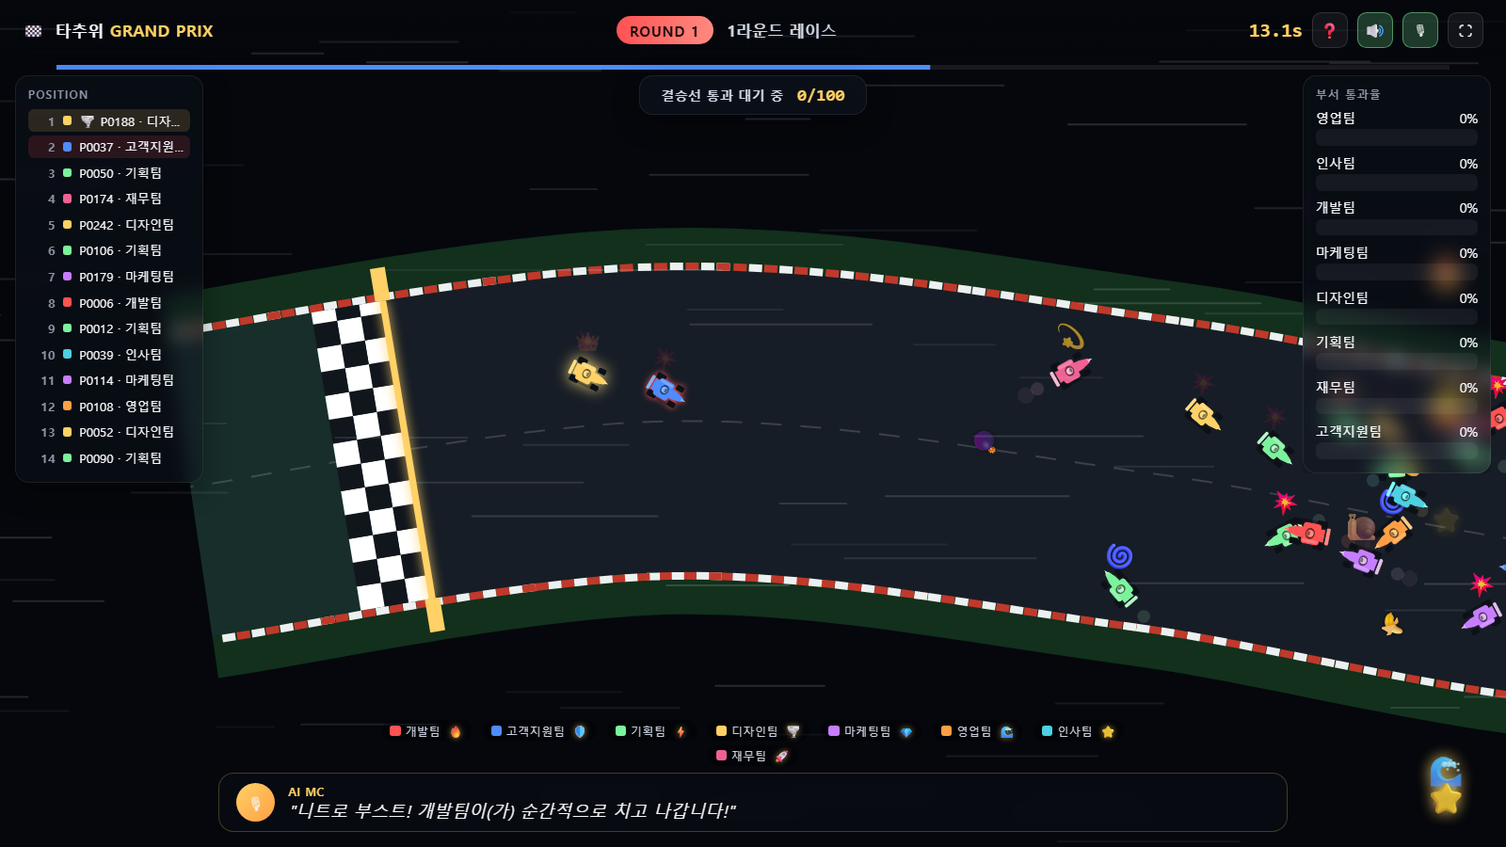
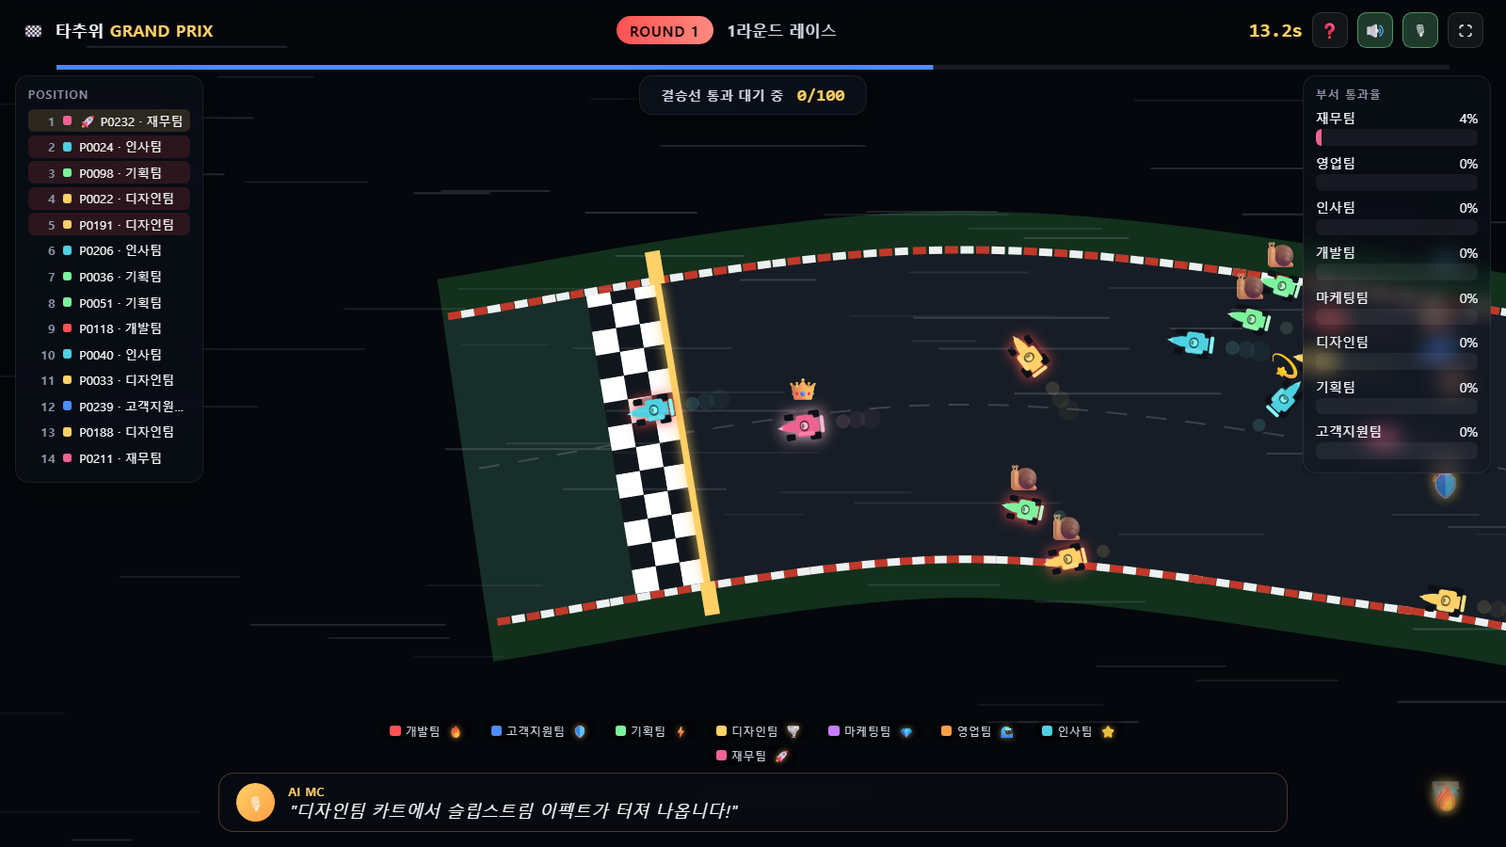
레이스: 장애물 8종에 종류별 크기·움직임 패턴 부여
사용자 요청: "장애물이 각각 특색이 있도록 해 줘. 움직임과 패턴도 다
제각각이고, 크기도 카트보다 큰 것 등도 있게끔".

예전에는 8종이 **전부 같은 사인파 좌우 흔들림**에 진폭·주기만 난수로
달랐고 크기도 0.85~1.35배 안에서만 흔들려서, 화면에서는 사실상 이모지만
다른 같은 물체로 보였다. race.py에 OBSTACLE_PROFILES를 두고 종류마다
크기·흔들림 폭·주기·회전 속도·형태 비율을 따로 정의한다. 클라이언트는
서버가 내려준 motion 값에 따라 **수식 자체가 다른** 움직임을 그린다:

- 바나나 tumble(빠르게 뒹굴며 불규칙하게 튐) / 콘 jitter(두 주파수를 겹친
  신경질적 떨림) / 타이어 roll(좌우 왕복 + 회전을 이동에 연동해 실제로
  구름) / 폭탄 pulse(부풀었다 꺼짐) / 얼음 glide(느리고 넓은 활강) /
  기름·웅덩이 seep(제자리에서 번졌다 줄어듦) / 바위 static(사실상 고정)
- 크기는 0.75(바나나)~1.95(바위)로 벌렸다. 기준 크기 자체가 카트 높이의
  1.05배라 **바위는 카트의 약 2배**가 된다. 같은 종류 안에서도 개체마다
  ±12% 편차를 줘 콘 두 개가 똑같이 흔들리지는 않게 했다.

**설계 규칙: 무겁고 클수록 덜 움직인다.** 물리적으로 자연스럽기도 하지만
실용적 이유가 더 크다 -- 충돌 판정은 레인 일치로만 하므로 큰 장애물이 옆
레인까지 흔들려 나가면 "저건 내 레인이 아닌데 왜 안 맞았지"로 보인다.
그래서 바위·웅덩이의 drift는 거의 0이고, 어떤 종류든 흔들림 폭은 기존
HAZARD_DRIFT_LANES(자기 레인 안) 상한을 그대로 지킨다.

부수 변경:
- drawObstacle이 **트랙 방향으로 먼저 정렬한 뒤** 자체 회전을 얹는다.
  이 순서라야 squash(레인 방향으로 납작하게)가 의미를 갖는다.
- 장애물 스프라이트를 56px -> 112px로 굽는다. 바위가 2배로 커지고 R3
  클로즈업 줌이 겹치면 예전 해상도로는 뭉개졌다.

**판정에는 영향이 없다.** 크기·움직임은 전부 연출 파라미터이고, 순위에
쓰이는 페널티 합은 여전히 레인 일치로만 정해진다(순환 참조 방지 구조
그대로). 결승선에서 목표 위치와 정확히 일치한다는 불변식도 그대로다.

검증: 기존 "흔들림이 레인을 벗어나면 안 된다" 회귀 테스트가 실제로 한 번
잡아줬다(개체 편차를 곱하기 전에 상한을 걸어 상한을 넘겼음). 종류별 프로필이
서로 구별되는지 + 개체 편차가 성격을 흐리지 않는지 확인하는 테스트 2개
추가. 실제 250명 세션을 구동해 확대 캡처로 형태·크기 차이를 눈으로 확인했고
(squash 0.6은 이모지가 찌그러져 알아볼 수 없어 0.75~1.0으로 조정),
콘솔 에러 0건. pytest 322개 통과(320 -> +2).

diff --git a/static/stage.js b/static/stage.js
@@ -1840,14 +1840,17 @@ function drawKart(ctx, x, y, h, angle, color, glow, isLeader, atRisk, pulse, eff
 const obstacleSpriteCache = new Map();
 
 function buildObstacleSprite(type) {
+  // 종류별 크기 차이를 준 뒤로는 바위가 카트의 2배까지 커지고, R3 클로즈업
+  // 줌에서는 그보다 더 커진다. 56px로 굽던 예전 해상도로는 확대 시 뭉개지므로
+  // 넉넉히 굽는다(종류당 한 번만 만들어 캐시하므로 비용은 무시할 수준).
   const c = document.createElement("canvas");
-  c.width = 56;
-  c.height = 56;
+  c.width = 112;
+  c.height = 112;
   const g = c.getContext("2d");
-  g.font = "40px serif";
+  g.font = "80px serif";
   g.textAlign = "center";
   g.textBaseline = "middle";
-  g.fillText((OBSTACLE_VISUAL[type] || OBSTACLE_VISUAL.cone).emoji, 28, 30);
+  g.fillText((OBSTACLE_VISUAL[type] || OBSTACLE_VISUAL.cone).emoji, 56, 60);
   return c;
 }
 
@@ -1866,10 +1869,73 @@ function drawObstacle(ctx, o, size) {
   ctx.shadowColor = "rgba(0,0,0,0.5)";
   ctx.shadowBlur = 4;
   ctx.translate(o.x, o.y);
-  ctx.rotate(o.spinPhase);
-  const s = size * o.sizeScale;
-  ctx.drawImage(obstacleSpriteFor(o.type), -s / 2, -s / 2, s, s);
+  // **트랙 방향으로 먼저 정렬한 뒤** 자체 회전을 얹는다. 이 순서라야
+  // squash(레인 방향으로 납작하게)가 의미를 갖는다 -- 정렬 후 로컬 +x가
+  // 진행 방향, +y가 레인을 가로지르는 방향이다.
+  ctx.rotate(o.angle + o.spinPhase);
+  const s = size * o.sizeScale * (o.pulse || 1);
+  const squash = o.squash !== undefined ? o.squash : 1;
+  // 진행 방향으로는 s만큼 길게, 레인을 가로지르는 방향으로는 s*squash만큼만.
+  // 기름·웅덩이처럼 큰 장애물이 옆 레인까지 번져 보이지 않게 하는 장치다
+  // (충돌 판정은 레인 일치로만 하므로 시각적 침범이 곧 오해가 된다).
+  ctx.drawImage(obstacleSpriteFor(o.type), -s / 2, -(s * squash) / 2, s, s * squash);
   ctx.restore();
+}
+
+// 장애물 종류별 움직임 패턴(사용자 요청: "움직임과 패턴도 다 제각각").
+// 서버가 내려준 motion 값에 따라 **수식 자체가 다르다** -- 예전처럼 같은
+// 사인파에 진폭만 다른 게 아니다. 반환값:
+//   lateral : 레인 너비 대비 좌우 오프셋
+//   bob     : 진행률(at_ratio) 오프셋 -- 앞뒤로 살짝 떠다니는 느낌
+//   pulse   : 크기 배수(1이면 그대로)
+//   roll    : true면 회전을 좌우 이동에 연동(구르는 물체)
+function obstacleMotionAt(o, t) {
+  const speed = o.drift_speed !== undefined ? o.drift_speed : 0.6;
+  const phase = (o.drift_phase !== undefined ? o.drift_phase : hashToUnit(o.id + ":p")) * Math.PI * 2;
+  const amp = o.drift_amp !== undefined ? o.drift_amp : 0.3;
+  const w = t * speed * Math.PI * 2 + phase;
+
+  switch (o.motion) {
+    // 바위: 사실상 고정. 아주 미세하게만 흔들려 "살아 있는 화면"만 유지한다.
+    case "static":
+      return { lateral: Math.sin(w) * amp * 0.4, bob: 0, pulse: 1 };
+    // 콘: 두 주파수를 겹쳐 불규칙하게 떠는 느낌(가볍고 자꾸 건드려지는 물체)
+    case "jitter":
+      return {
+        lateral: (Math.sin(w) * 0.6 + Math.sin(w * 2.7 + 1.1) * 0.4) * amp,
+        bob: Math.sin(w * 3.1) * 0.0015,
+        pulse: 1,
+      };
+    // 타이어: 삼각파로 좌우를 왕복하고, 회전을 이동에 연동해 **실제로 구르게** 한다
+    case "roll":
+      return {
+        lateral: (Math.asin(Math.sin(w)) / (Math.PI / 2)) * amp,
+        bob: 0,
+        pulse: 1,
+        roll: true,
+      };
+    // 바나나: 빠르게 뒹굴며 좌우로도 불규칙하게 튄다
+    case "tumble":
+      return {
+        lateral: (Math.sin(w) * 0.7 + Math.cos(w * 1.6) * 0.3) * amp,
+        bob: Math.cos(w * 0.9) * 0.003,
+        pulse: 1,
+      };
+    // 폭탄: 자리는 거의 안 옮기고 **부풀었다 꺼진다**(터지기 직전 같은 맥동)
+    case "pulse":
+      return {
+        lateral: Math.sin(w * 0.5) * amp,
+        bob: 0,
+        pulse: 1 + Math.max(0, Math.sin(w)) * 0.24,
+      };
+    // 얼음: 느리고 넓게 활강한다
+    case "glide":
+      return { lateral: Math.sin(w) * amp, bob: Math.cos(w * 0.7) * 0.004, pulse: 1 };
+    // 기름·웅덩이: 제자리에서 천천히 번졌다 줄어든다(좌우 이동은 거의 없음)
+    case "seep":
+    default:
+      return { lateral: Math.sin(w) * amp, bob: 0, pulse: 1 + Math.sin(w) * 0.07 };
+  }
 }
 
 // 서버가 보낸 배치(id/at_ratio/lane/type + 움직임 파라미터)를 화면 좌표로
@@ -1889,24 +1955,26 @@ function obstacleScreenPoints(obstacles, passLine, round, halfWidth) {
   return obstacles.map((o) => {
     // 서버가 파라미터를 안 준 경우(구버전 세션)에도 id 해시로 폴백해
     // 최소한의 움직임은 유지한다.
-    const amp = o.drift_amp !== undefined ? o.drift_amp : 0.3;
-    const speed = o.drift_speed !== undefined ? o.drift_speed : 0.6;
     const phase = (o.drift_phase !== undefined ? o.drift_phase : hashToUnit(o.id + ":p")) * Math.PI * 2;
     const spinSpeed = o.spin_speed !== undefined ? o.spin_speed : 0;
     const sizeScale = o.size_scale !== undefined ? o.size_scale : 1;
 
-    const wobble = Math.sin(t * speed * Math.PI * 2 + phase);
-    const laneOffset = (o.lane - (LANE_COUNT - 1) / 2) * laneWidth + wobble * amp * laneWidth;
-    // 진행 방향으로도 아주 살짝 떠다니게 한다(폭이 작아 충돌 시점 인식에는
-    // 영향을 주지 않으면서 "떠 있는 물체" 느낌을 만든다).
-    const bob = Math.cos(t * speed * Math.PI * 2 * 0.7 + phase) * 0.004;
-    const center = trackPointAt(warpProgress(Math.max(0, o.at_ratio + bob), passLine), round);
+    const m = obstacleMotionAt(o, t);
+    const laneOffset = (o.lane - (LANE_COUNT - 1) / 2) * laneWidth + m.lateral * laneWidth;
+    const center = trackPointAt(warpProgress(Math.max(0, o.at_ratio + m.bob), passLine), round);
     const nx = -Math.sin(center.angle);
     const ny = Math.cos(center.angle);
+    // 구르는 물체(타이어)는 회전이 좌우 이동에 연동돼야 진짜 구르는 것처럼
+    // 보인다 -- 등속 회전이면 제자리에서 헛도는 바퀴가 된다.
+    const spinPhase = m.roll
+      ? m.lateral * spinSpeed * 9
+      : phase + t * spinSpeed;
     return {
       ...o,
       sizeScale,
-      spinPhase: phase + t * spinSpeed,
+      pulse: m.pulse,
+      angle: center.angle,
+      spinPhase,
       x: center.x + nx * laneOffset,
       y: center.y + ny * laneOffset,
     };

diff --git a/app/race.py b/app/race.py
@@ -124,6 +124,58 @@ HAZARD_JITTER = 0.7
 # 유지되는 선에서만 움직이게 한다(충돌 판정은 레인 일치로만 정해진다).
 HAZARD_DRIFT_LANES = 0.38
 
+# 장애물 종류별 "성격"(사용자 요청: "장애물이 각각 특색이 있도록. 움직임과
+# 패턴도 다 제각각이고, 크기도 카트보다 큰 것 등도 있게끔").
+#
+# 예전에는 8종이 **전부 같은 사인파 좌우 흔들림**에 진폭·주기만 난수로
+# 달랐고 크기도 0.85~1.35배 안에서만 흔들려서, 화면에서는 사실상 이모지만
+# 다른 같은 물체로 보였다. 이제 종류마다 움직임 패턴 자체가 다르다.
+#
+# **설계 규칙: 무겁고 큰 것일수록 덜 움직이고, 가볍고 작은 것일수록 많이
+# 돌아다닌다.** 물리적으로 납득되기도 하지만, 실용적인 이유가 더 크다 --
+# 충돌 판정은 서버가 **레인 일치로만** 하므로, 큰 장애물이 옆 레인까지
+# 흔들려 나가면 "저건 내 레인이 아닌데 왜 안 맞았지"로 보인다. 그래서 큰
+# 것에는 거의 0에 가까운 drift를 준다.
+#
+# 값 의미:
+#   motion  : 클라이언트가 고를 움직임 패턴(static/jitter/roll/tumble/
+#             pulse/glide/seep -- static.js의 obstacleScreenPoints 참고)
+#   size    : 기본 장애물 크기 배수. 기준 크기 자체가 카트 높이의 1.05배라
+#             1.0을 넘으면 이미 카트보다 크고, rock(1.95)은 약 2배다.
+#   drift   : 좌우 흔들림 폭(레인 너비 대비, HAZARD_DRIFT_LANES 이하)
+#   speed   : 흔들림 주기(Hz) 범위
+#   spin    : 회전 속도(회/초) 범위. 타이어는 빠르게 구르고 바위는 거의 안 돈다
+#   squash  : 가로(레인 방향) 대 세로(진행 방향) 비. 1보다 작으면 레인
+#             방향으로 납작해져 **옆 레인을 안 건드리면서도** 커 보인다 --
+#             기름/웅덩이처럼 바닥에 퍼진 것에 쓴다
+OBSTACLE_PROFILES: dict[str, dict[str, Any]] = {
+    # 작고 가벼운 것 -- 자주, 넓게 돌아다닌다
+    "cone": {"motion": "jitter", "size": 0.80, "drift": 0.30,
+             "speed": (0.9, 1.7), "spin": (-0.35, 0.35), "squash": 1.0},
+    "banana": {"motion": "tumble", "size": 0.75, "drift": 0.26,
+               "speed": (0.9, 1.5), "spin": (-2.8, 2.8), "squash": 1.0},
+    # 구르는 것 -- 좌우로 왕복하면서 진행 방향으로 빠르게 회전
+    "tire": {"motion": "roll", "size": 1.10, "drift": 0.34,
+             "speed": (0.45, 0.8), "spin": (2.2, 3.4), "squash": 1.0},
+    # 터질 듯 맥동하는 것 -- 자리는 거의 안 옮기고 크기가 뛴다
+    "bomb": {"motion": "pulse", "size": 1.30, "drift": 0.12,
+             "speed": (1.4, 2.2), "spin": (-0.9, 0.9), "squash": 1.0},
+    # 미끄러지는 것 -- 느리고 넓게 활강한다
+    "ice": {"motion": "glide", "size": 1.55, "drift": 0.20,
+            "speed": (0.18, 0.36), "spin": (-0.3, 0.3), "squash": 0.95},
+    # 바닥에 퍼진 것 -- 거의 안 움직이고, 레인 방향으로 살짝 납작하다.
+    # squash를 0.6까지 내려봤더니 이모지 자체가 찌그러져 무슨 물건인지
+    # 알아볼 수 없었다(기름통이 파란 마름모로 보였다). 레인 침범을 막는
+    # 효과는 유지하면서 형태는 알아볼 수 있는 선인 0.75~0.85로 잡는다.
+    "oil": {"motion": "seep", "size": 1.65, "drift": 0.05,
+            "speed": (0.14, 0.30), "spin": (-0.05, 0.05), "squash": 0.85},
+    "puddle": {"motion": "seep", "size": 1.75, "drift": 0.04,
+               "speed": (0.12, 0.26), "spin": (-0.04, 0.04), "squash": 0.75},
+    # 가장 크고 무거운 것 -- 사실상 고정. 카트 2배 크기의 위압감이 목적이다
+    "rock": {"motion": "static", "size": 1.95, "drift": 0.02,
+             "speed": (0.08, 0.18), "spin": (-0.1, 0.1), "squash": 1.0},
+}
+
 
 @lru_cache(maxsize=64)
 def _hazard_specs(seed: str, round_index: int) -> tuple[dict[str, Any], ...]:
@@ -158,6 +210,15 @@ def _hazard_specs(seed: str, round_index: int) -> tuple[dict[str, Any], ...]:
         lane = int(_pseudo_noise(f"{base}:lane") * LANE_COUNT)
         type_idx = int(_pseudo_noise(f"{base}:type") * len(OBSTACLE_CATALOG))
         obstacle_type, penalty = OBSTACLE_CATALOG[type_idx]
+        profile = OBSTACLE_PROFILES[obstacle_type]
+
+        def pick(key: str, lo_hi: tuple[float, float]) -> float:
+            """종류별 범위 안에서 시드로 하나 고른다. 같은 종류라도 개체마다
+            조금씩 다르게(같은 콘 두 개가 똑같이 흔들리지 않게) 만들되,
+            범위 자체가 종류마다 달라 성격은 유지된다."""
+            low, high = lo_hi
+            return low + _pseudo_noise(f"{base}:{key}") * (high - low)
+
         hazards.append(
             {
                 "id": f"r{round_index}-{i}",
@@ -167,11 +228,21 @@ def _hazard_specs(seed: str, round_index: int) -> tuple[dict[str, Any], ...]:
                 "penalty": penalty,
                 # 화면에서 살아 움직이게 하는 파라미터(연출 전용, 전부 시드
                 # 파생이라 관전자 화면 여러 대가 똑같이 움직인다).
-                "drift_amp": (0.35 + _pseudo_noise(f"{base}:amp") * 0.65) * HAZARD_DRIFT_LANES,
-                "drift_speed": 0.35 + _pseudo_noise(f"{base}:speed") * 0.75,  # Hz
+                # 종류별 성격(OBSTACLE_PROFILES)에 개체별 편차를 얹는다.
+                "motion": profile["motion"],
+                "squash": profile["squash"],
+                # 개체 편차를 **곱한 뒤에** 상한을 건다 -- 먼저 자르면 편차가
+                # 상한을 다시 넘겨버린다(레인 이탈 회귀 테스트가 잡아준 실수).
+                "drift_amp": min(
+                    HAZARD_DRIFT_LANES,
+                    profile["drift"] * (0.75 + _pseudo_noise(f"{base}:amp") * 0.5),
+                ),
+                "drift_speed": pick("speed", profile["speed"]),  # Hz
                 "drift_phase": _pseudo_noise(f"{base}:phase"),  # 0..1 (x2pi)
-                "spin_speed": (_pseudo_noise(f"{base}:spin") - 0.5) * 1.6,  # 회전/초
-                "size_scale": 0.85 + _pseudo_noise(f"{base}:size") * 0.5,
+                "spin_speed": pick("spin", profile["spin"]),  # 회전/초
+                # 개체별 크기 편차는 ±12%만 -- 이보다 크게 흔들면 "바위인데
+                # 콘만 하다" 같은 게 나와 종류별 크기 차이가 흐려진다.
+                "size_scale": profile["size"] * (0.88 + _pseudo_noise(f"{base}:size") * 0.24),
             }
         )
     return tuple(hazards)

diff --git a/tests/test_race.py b/tests/test_race.py
@@ -173,6 +173,54 @@ def test_obstacle_layout_is_deterministic_and_well_formed():
         assert hazard["drift_speed"] > 0
 
 
+def test_every_obstacle_type_has_a_distinct_look_and_motion_profile():
+    """사용자 요청: "장애물이 각각 특색이 있도록. 움직임과 패턴도 다
+    제각각이고, 크기도 카트보다 큰 것 등도 있게끔."
+
+    예전에는 8종이 전부 같은 사인파에 진폭만 난수로 달라 화면에서는 이모지만
+    다른 같은 물체로 보였다. 카탈로그의 모든 종류가 프로필을 갖는지, 그리고
+    그 프로필이 실제로 서로 구별되는지(움직임 패턴이 한 종류로 쏠리지 않고,
+    크기 차이가 눈에 띄는 폭인지)를 고정한다."""
+    catalog_types = {t for t, _ in race.OBSTACLE_CATALOG}
+    # 카탈로그에 있는데 프로필이 없으면 KeyError로 레이스가 죽는다
+    assert catalog_types == set(race.OBSTACLE_PROFILES)
+
+    motions = {p["motion"] for p in race.OBSTACLE_PROFILES.values()}
+    assert len(motions) >= 5, "움직임 패턴이 몇 종류로 쏠려 있습니다"
+
+    sizes = [p["size"] for p in race.OBSTACLE_PROFILES.values()]
+    # 기준 크기가 이미 카트 높이의 1.05배라, 1.5를 넘으면 확실히 카트보다 크다
+    assert max(sizes) >= 1.5, "카트보다 확실히 큰 장애물이 없습니다"
+    assert min(sizes) <= 0.85, "작고 앙증맞은 장애물이 없습니다"
+
+    # **무거운 것일수록 덜 움직인다** -- 큰 장애물이 옆 레인까지 흔들려 나가면
+    # "저건 내 레인이 아닌데 왜 안 맞았지"로 보인다(판정은 레인 일치로만 한다).
+    biggest = max(race.OBSTACLE_PROFILES.values(), key=lambda p: p["size"])
+    smallest = min(race.OBSTACLE_PROFILES.values(), key=lambda p: p["size"])
+    assert biggest["drift"] < smallest["drift"]
+
+
+def test_obstacle_render_params_follow_their_type_profile():
+    """개체별 편차가 있어도 **종류의 성격은 유지**돼야 한다 -- 같은 종류의
+    콘 두 개가 완전히 똑같이 흔들려도 안 되지만, 바위가 콘만 해져도 안 된다."""
+    by_type: dict[str, list[dict]] = {}
+    for round_index in (1, 2, 3):
+        for hazard in obstacle_layout("profile-seed", round_index, 0.7):
+            by_type.setdefault(hazard["type"], []).append(hazard)
+
+    for obstacle_type, hazards in by_type.items():
+        profile = race.OBSTACLE_PROFILES[obstacle_type]
+        for hazard in hazards:
+            assert hazard["motion"] == profile["motion"]
+            assert hazard["squash"] == profile["squash"]
+            # 크기 편차는 프로필 기준 ±12% 안
+            assert profile["size"] * 0.87 <= hazard["size_scale"] <= profile["size"] * 1.13
+            lo, hi = profile["speed"]
+            assert lo <= hazard["drift_speed"] <= hi
+            spin_lo, spin_hi = profile["spin"]
+            assert spin_lo <= hazard["spin_speed"] <= spin_hi
+
+
 def test_obstacles_are_placed_before_the_finish_line_with_even_spacing():
     """사용자 요청: 장애물은 결승선 **이후**가 아니라 결승선까지 가는
     도중에 적절한 간격으로 놓여야 한다."""

diff --git a/타추위-추첨프로그램_게임구조.md b/타추위-추첨프로그램_게임구조.md
@@ -504,16 +504,19 @@ PredictionEngine.rank_of]`
 파생**된다(연출 파일 `static/stage.js: OBSTACLE_VISUAL`은 이제 "어떻게
 보여줄지"만 담당하고 배치·판정에는 관여하지 않는다):
 
-| 장애물 | 효과 | 페널티(0~1 스케일) |
-|---|---|---|
-| 🚧 콘 | wobble | 0.006 |
-| 🛢 기름 | slow | 0.012 |
-| 🛞 타이어 | slow | 0.010 |
-| 🍌 바나나 | spin | 0.018 |
-| 💧 웅덩이 | slide | 0.014 |
-| 🪨 바위 | stall | 0.022 |
-| 💣 폭탄 | stall | 0.030 |
-| 🧊 얼음 | slide | 0.016 |
+| 장애물 | 맞은 카트 효과 | 페널티 | 크기 | 움직임 패턴 |
+|---|---|---|---|---|
+| 🍌 바나나 | spin | 0.018 | 0.75 (가장 작음) | `tumble` — 빠르게 뒹굴며 불규칙하게 튄다 |
+| 🚧 콘 | wobble | 0.006 | 0.80 | `jitter` — 두 주파수를 겹쳐 신경질적으로 떤다 |
+| 🛞 타이어 | slow | 0.010 | 1.10 | `roll` — 좌우로 왕복하며 **이동에 연동돼 실제로 구른다** |
+| 💣 폭탄 | stall | 0.030 | 1.30 | `pulse` — 자리는 그대로, 부풀었다 꺼진다 |
+| 🧊 얼음 | slide | 0.016 | 1.55 | `glide` — 느리고 넓게 활강한다 |
+| 🛢 기름 | slow | 0.012 | 1.65 | `seep` — 거의 정지, 천천히 번졌다 줄어든다 |
+| 💧 웅덩이 | slide | 0.014 | 1.75 | `seep` — 위와 같음 |
+| 🪨 바위 | stall | 0.022 | 1.95 (**카트의 약 2배**) | `static` — 사실상 고정 |
+
+> 크기는 기준값 배수인데 **기준값 자체가 카트 높이의 1.05배**라, 1.0을
+> 넘으면 이미 카트보다 크다. `[app/race.py: OBSTACLE_PROFILES]`
 
 - **배치**: 라운드마다 정확히 **10개**(`HAZARDS_PER_ROUND`)가 고정 레인
   0~7(`LANE_COUNT=8`) 위에 (시드, 라운드, 순번) 해시로 결정론적으로
@@ -524,11 +527,21 @@ PredictionEngine.rank_of]`
   결승선 값을 곱한다. 라운드마다 결승선 위치가 달라도 장애물은 항상
   결승선 앞 구간에만 깔린다. 균일 난수 대신 **균등 슬롯 + 슬롯 내
   지터**를 써서 한곳에 뭉치고 다른 구간이 텅 비는 일이 없다.
-- **움직인다** `[HAZARD_DRIFT_LANES]`: 좌우로 흔들리며 회전하고 살짝
-  떠다닌다. 움직임 파라미터(진폭·주기·위상·회전속도)도 전부 시드 파생
-  이라 관전 화면이 몇 대든 똑같이 움직인다. 좌우 흔들림은 **자기 레인
-  안(0.38 레인폭)으로 제한**된다 — 옆 레인을 침범하면 "저건 내 레인이
-  아닌데 왜 맞았지"로 보이기 때문이다.
+- **종류마다 성격이 다르다** `[OBSTACLE_PROFILES]`: 크기·움직임 패턴·회전
+  속도·형태 비율이 종류별로 따로 정의돼 있고(위 표), 클라이언트는 서버가
+  내려준 `motion` 값에 따라 **수식 자체가 다른** 움직임을 그린다
+  `[stage.js: obstacleMotionAt]`. 같은 종류 안에서도 개체마다 ±12% 크기,
+  주기·위상 편차를 줘서 콘 두 개가 똑같이 흔들리지는 않는다.
+- **설계 규칙: 무겁고 클수록 덜 움직인다.** 물리적으로 자연스럽기도 하지만
+  실용적 이유가 더 크다 — 충돌 판정은 **레인 일치로만** 하므로, 큰 장애물이
+  옆 레인까지 흔들려 나가면 "저건 내 레인이 아닌데 왜 안 맞았지"로 보인다.
+  그래서 바위·웅덩이의 좌우 흔들림은 거의 0이고, 어떤 종류든 흔들림 폭은
+  **자기 레인 안(0.38 레인폭)으로 제한**된다 `[HAZARD_DRIFT_LANES]`.
+  큰 장애물은 추가로 `squash`(레인 방향으로 살짝 납작하게)를 적용해 옆
+  레인 침범을 더 줄인다 — 다만 0.6까지 내리면 이모지가 찌그러져 무슨
+  물건인지 알아볼 수 없으므로 0.75~1.0 범위만 쓴다.
+- 움직임 파라미터는 전부 **시드 파생**이라 관전 화면이 몇 대든 똑같이
+  움직이고, 순위에는 전혀 영향이 없다.
 
 > **왜 위치와 페널티를 분리했나**: 순위 계산에 쓰이는 페널티 합은
 > **레인 일치로만** 정해져 결승선을 전혀 필요로 하지 않는다. 만약 배치가

diff --git a/타추위-추첨프로그램_게임소개.md b/타추위-추첨프로그램_게임소개.md
@@ -92,6 +92,10 @@
   바나나🍌, 웅덩이💧, 바위🪨, 폭탄💣, 얼음🧊 8종입니다. 카트가 부딪히면
   팽그르르 돌거나(스핀아웃), 확 느려지거나, 옆으로 미끄러져 코스를
   이탈합니다. **이번엔 진짜입니다** — 부딪히면 실제로 순위가 밀립니다.
+- **장애물마다 생김새도 움직임도 다릅니다.** 바나나는 작고 빠르게
+  뒹굴고, 타이어는 좌우로 굴러다니고, 폭탄은 터질 듯 부풀었다 꺼집니다.
+  반대로 **바위는 카트의 두 배 크기로 거의 꿈쩍도 하지 않습니다** —
+  큰 놈일수록 무거워서 안 움직인다고 보시면 됩니다.
   다만 어느 카트가 어느 라운드에 어떤 장애물에 몇 번 맞는지는 행사
   시작 전에 이미 시드 하나로 다 정해져 있던 결과입니다(§4 참고) —
   레이스 도중 누가 조작하거나 즉석에서 결정되는 게 아닙니다.
